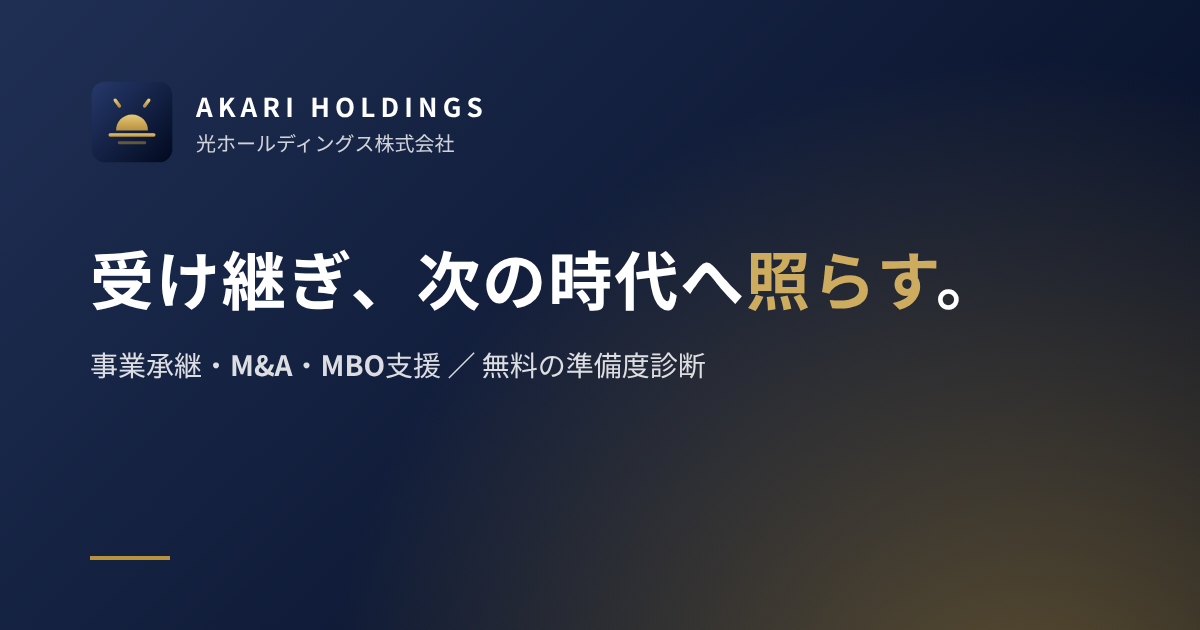
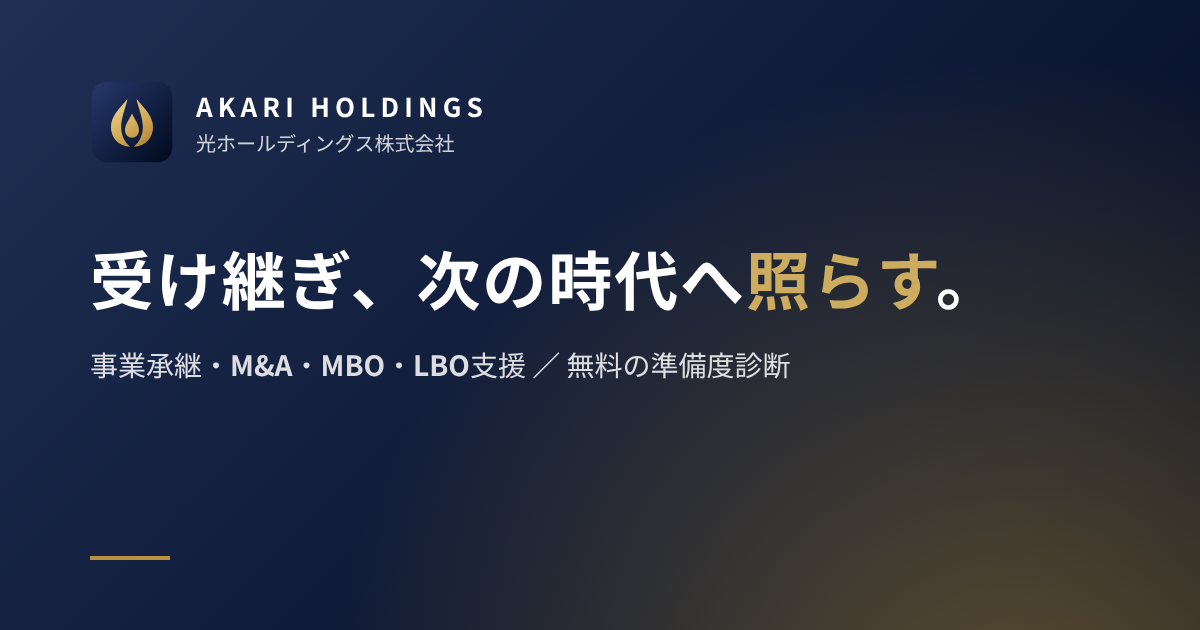
ロゴを新しいシンボル（2つのビジョンが1つの灯をともす）に変更
- assets/logo-mark.svg を新デザインに差し替え（ヘッダー・フッター・ファビコン）
- シンボル単体の assets/akari-symbol.svg、logo-512.png、apple-touch-icon.png を追加
- 共有用画像 og-image.png を新ロゴと「MBO・LBO支援」で作り直し
- about.html に「Symbol」としてロゴに込めた想いを追加
- 名刺・Googleビジネスプロフィール用のロゴ一式を ops/logo/ に追加
- 旧エンブレム（未使用）を削除

Claude-Session: https://claude.ai/code/session_01TrYAVcFz3JDQ6PgAXP3PGt

Changed region(s): [[0.3083, 0.5429, 0.6783, 0.6032], [0.0925, 0.1508, 0.1542, 0.2413]]

diff --git a/about.html b/about.html
@@ -16,16 +16,17 @@
 <link rel="preconnect" href="https://fonts.googleapis.com">
 <link rel="preconnect" href="https://fonts.gstatic.com" crossorigin>
 <link href="https://fonts.googleapis.com/css2?family=Noto+Sans+JP:wght@300;400;500;700;900&family=Archivo:ital,wght@0,300;0,400;0,500;0,600;0,700;0,800;1,400&display=swap" rel="stylesheet">
-<link rel="icon" type="image/svg+xml" href="assets/logo-mark.svg?v=15">
+<link rel="icon" type="image/svg+xml" href="assets/logo-mark.svg?v=16">
+<link rel="apple-touch-icon" href="assets/apple-touch-icon.png">
 <meta name="theme-color" content="#01091e">
-<link rel="stylesheet" href="assets/style.css?v=18">
+<link rel="stylesheet" href="assets/style.css?v=19">
 </head>
 <body>
 
 <header class="site-header" id="siteHeader">
   <div class="header-inner">
     <a href="index.html" class="logo" aria-label="光ホールディングス株式会社">
-      <img class="logo-mark" src="assets/logo-mark.svg?v=15" alt="光ホールディングス ロゴ">
+      <img class="logo-mark" src="assets/logo-mark.svg?v=16" alt="光ホールディングス ロゴ">
       <span class="logo-text">
         <span class="logo-en">AKARI HOLDINGS</span>
         <span class="logo-jp">光ホールディングス株式会社</span>
@@ -114,6 +115,14 @@
         <p>目先の利益ではなく、受け継ぐ責任と長期の信頼を。グループ各社とともに価値を育てます。</p>
       </div>
     </div>
+    <div class="symbol-story" data-reveal>
+      <img src="assets/akari-symbol.svg" alt="光ホールディングスのシンボルマーク" width="120" height="136">
+      <div>
+        <span class="phi-label">Symbol</span>
+        <h3>2つのビジョンが寄り添い、1つの灯をともす</h3>
+        <p>左の形は「会社のビジョン」、右の形は「そこで働く一人ひとりのビジョン」です。2つが寄り添い、互いを支え合うことで、その真ん中に未来を照らす灯（あかり）がともります。会社の目指す姿と、働く人の想いの両方を大切にする——それが、私たちのシンボルに込めた想いです。</p>
+      </div>
+    </div>
   </div>
 </section>
 
@@ -144,7 +153,7 @@
 <footer class="site-footer">
   <div class="container footer-inner">
     <div class="footer-brand">
-      <img class="logo-mark" src="assets/logo-mark.svg?v=15" alt="光ホールディングス ロゴ">
+      <img class="logo-mark" src="assets/logo-mark.svg?v=16" alt="光ホールディングス ロゴ">
       <div>
         <span class="logo-en">AKARI HOLDINGS</span>
         <span class="logo-jp">光ホールディングス株式会社</span>

diff --git a/index.html b/index.html
@@ -16,9 +16,10 @@
 <link rel="preconnect" href="https://fonts.googleapis.com">
 <link rel="preconnect" href="https://fonts.gstatic.com" crossorigin>
 <link href="https://fonts.googleapis.com/css2?family=Noto+Sans+JP:wght@300;400;500;700;900&family=Archivo:ital,wght@0,300;0,400;0,500;0,600;0,700;0,800;1,400&display=swap" rel="stylesheet">
-<link rel="icon" type="image/svg+xml" href="assets/logo-mark.svg?v=15">
+<link rel="icon" type="image/svg+xml" href="assets/logo-mark.svg?v=16">
+<link rel="apple-touch-icon" href="assets/apple-touch-icon.png">
 <meta name="theme-color" content="#01091e">
-<link rel="stylesheet" href="assets/style.css?v=18">
+<link rel="stylesheet" href="assets/style.css?v=19">
 </head>
 <body>
 
@@ -26,7 +27,7 @@
 <header class="site-header" id="siteHeader">
   <div class="header-inner">
     <a href="index.html" class="logo" aria-label="光ホールディングス株式会社">
-      <img class="logo-mark" src="assets/logo-mark.svg?v=15" alt="光ホールディングス ロゴ">
+      <img class="logo-mark" src="assets/logo-mark.svg?v=16" alt="光ホールディングス ロゴ">
       <span class="logo-text">
         <span class="logo-en">AKARI HOLDINGS</span>
         <span class="logo-jp">光ホールディングス株式会社</span>
@@ -232,7 +233,7 @@
 <footer class="site-footer">
   <div class="container footer-inner">
     <div class="footer-brand">
-      <img class="logo-mark" src="assets/logo-mark.svg?v=15" alt="光ホールディングス ロゴ">
+      <img class="logo-mark" src="assets/logo-mark.svg?v=16" alt="光ホールディングス ロゴ">
       <div>
         <span class="logo-en">AKARI HOLDINGS</span>
         <span class="logo-jp">光ホールディングス株式会社</span>

diff --git a/business-01.html b/business-01.html
@@ -16,16 +16,17 @@
 <link rel="preconnect" href="https://fonts.googleapis.com">
 <link rel="preconnect" href="https://fonts.gstatic.com" crossorigin>
 <link href="https://fonts.googleapis.com/css2?family=Noto+Sans+JP:wght@300;400;500;700;900&family=Archivo:ital,wght@0,300;0,400;0,500;0,600;0,700;0,800;1,400&display=swap" rel="stylesheet">
-<link rel="icon" type="image/svg+xml" href="assets/logo-mark.svg?v=15">
+<link rel="icon" type="image/svg+xml" href="assets/logo-mark.svg?v=16">
+<link rel="apple-touch-icon" href="assets/apple-touch-icon.png">
 <meta name="theme-color" content="#01091e">
-<link rel="stylesheet" href="assets/style.css?v=18">
+<link rel="stylesheet" href="assets/style.css?v=19">
 </head>
 <body>
 
 <header class="site-header" id="siteHeader">
   <div class="header-inner">
     <a href="index.html" class="logo" aria-label="光ホールディングス株式会社">
-      <img class="logo-mark" src="assets/logo-mark.svg?v=15" alt="光ホールディングス ロゴ">
+      <img class="logo-mark" src="assets/logo-mark.svg?v=16" alt="光ホールディングス ロゴ">
       <span class="logo-text">
         <span class="logo-en">AKARI HOLDINGS</span>
         <span class="logo-jp">光ホールディングス株式会社</span>
@@ -129,7 +130,7 @@
 <footer class="site-footer">
   <div class="container footer-inner">
     <div class="footer-brand">
-      <img class="logo-mark" src="assets/logo-mark.svg?v=15" alt="光ホールディングス ロゴ">
+      <img class="logo-mark" src="assets/logo-mark.svg?v=16" alt="光ホールディングス ロゴ">
       <div>
         <span class="logo-en">AKARI HOLDINGS</span>
         <span class="logo-jp">光ホールディングス株式会社</span>

diff --git a/business-02.html b/business-02.html
@@ -16,16 +16,17 @@
 <link rel="preconnect" href="https://fonts.googleapis.com">
 <link rel="preconnect" href="https://fonts.gstatic.com" crossorigin>
 <link href="https://fonts.googleapis.com/css2?family=Noto+Sans+JP:wght@300;400;500;700;900&family=Archivo:ital,wght@0,300;0,400;0,500;0,600;0,700;0,800;1,400&display=swap" rel="stylesheet">
-<link rel="icon" type="image/svg+xml" href="assets/logo-mark.svg?v=15">
+<link rel="icon" type="image/svg+xml" href="assets/logo-mark.svg?v=16">
+<link rel="apple-touch-icon" href="assets/apple-touch-icon.png">
 <meta name="theme-color" content="#01091e">
-<link rel="stylesheet" href="assets/style.css?v=18">
+<link rel="stylesheet" href="assets/style.css?v=19">
 </head>
 <body>
 
 <header class="site-header" id="siteHeader">
   <div class="header-inner">
     <a href="index.html" class="logo" aria-label="光ホールディングス株式会社">
-      <img class="logo-mark" src="assets/logo-mark.svg?v=15" alt="光ホールディングス ロゴ">
+      <img class="logo-mark" src="assets/logo-mark.svg?v=16" alt="光ホールディングス ロゴ">
       <span class="logo-text">
         <span class="logo-en">AKARI HOLDINGS</span>
         <span class="logo-jp">光ホールディングス株式会社</span>
@@ -130,7 +131,7 @@
 <footer class="site-footer">
   <div class="container footer-inner">
     <div class="footer-brand">
-      <img class="logo-mark" src="assets/logo-mark.svg?v=15" alt="光ホールディングス ロゴ">
+      <img class="logo-mark" src="assets/logo-mark.svg?v=16" alt="光ホールディングス ロゴ">
       <div>
         <span class="logo-en">AKARI HOLDINGS</span>
         <span class="logo-jp">光ホールディングス株式会社</span>

diff --git a/business-03.html b/business-03.html
@@ -16,16 +16,17 @@
 <link rel="preconnect" href="https://fonts.googleapis.com">
 <link rel="preconnect" href="https://fonts.gstatic.com" crossorigin>
 <link href="https://fonts.googleapis.com/css2?family=Noto+Sans+JP:wght@300;400;500;700;900&family=Archivo:ital,wght@0,300;0,400;0,500;0,600;0,700;0,800;1,400&display=swap" rel="stylesheet">
-<link rel="icon" type="image/svg+xml" href="assets/logo-mark.svg?v=15">
+<link rel="icon" type="image/svg+xml" href="assets/logo-mark.svg?v=16">
+<link rel="apple-touch-icon" href="assets/apple-touch-icon.png">
 <meta name="theme-color" content="#01091e">
-<link rel="stylesheet" href="assets/style.css?v=18">
+<link rel="stylesheet" href="assets/style.css?v=19">
 </head>
 <body>
 
 <header class="site-header" id="siteHeader">
   <div class="header-inner">
     <a href="index.html" class="logo" aria-label="光ホールディングス株式会社">
-      <img class="logo-mark" src="assets/logo-mark.svg?v=15" alt="光ホールディングス ロゴ">
+      <img class="logo-mark" src="assets/logo-mark.svg?v=16" alt="光ホールディングス ロゴ">
       <span class="logo-text">
         <span class="logo-en">AKARI HOLDINGS</span>
         <span class="logo-jp">光ホールディングス株式会社</span>
@@ -117,7 +118,7 @@
 <footer class="site-footer">
   <div class="container footer-inner">
     <div class="footer-brand">
-      <img class="logo-mark" src="assets/logo-mark.svg?v=15" alt="光ホールディングス ロゴ">
+      <img class="logo-mark" src="assets/logo-mark.svg?v=16" alt="光ホールディングス ロゴ">
       <div>
         <span class="logo-en">AKARI HOLDINGS</span>
         <span class="logo-jp">光ホールディングス株式会社</span>

diff --git a/business-04.html b/business-04.html
@@ -16,16 +16,17 @@
 <link rel="preconnect" href="https://fonts.googleapis.com">
 <link rel="preconnect" href="https://fonts.gstatic.com" crossorigin>
 <link href="https://fonts.googleapis.com/css2?family=Noto+Sans+JP:wght@300;400;500;700;900&family=Archivo:ital,wght@0,300;0,400;0,500;0,600;0,700;0,800;1,400&display=swap" rel="stylesheet">
-<link rel="icon" type="image/svg+xml" href="assets/logo-mark.svg?v=15">
+<link rel="icon" type="image/svg+xml" href="assets/logo-mark.svg?v=16">
+<link rel="apple-touch-icon" href="assets/apple-touch-icon.png">
 <meta name="theme-color" content="#01091e">
-<link rel="stylesheet" href="assets/style.css?v=18">
+<link rel="stylesheet" href="assets/style.css?v=19">
 </head>
 <body>
 
 <header class="site-header" id="siteHeader">
   <div class="header-inner">
     <a href="index.html" class="logo" aria-label="光ホールディングス株式会社">
-      <img class="logo-mark" src="assets/logo-mark.svg?v=15" alt="光ホールディングス ロゴ">
+      <img class="logo-mark" src="assets/logo-mark.svg?v=16" alt="光ホールディングス ロゴ">
       <span class="logo-text">
         <span class="logo-en">AKARI HOLDINGS</span>
         <span class="logo-jp">光ホールディングス株式会社</span>
@@ -133,7 +134,7 @@
 <footer class="site-footer">
   <div class="container footer-inner">
     <div class="footer-brand">
-      <img class="logo-mark" src="assets/logo-mark.svg?v=15" alt="光ホールディングス ロゴ">
+      <img class="logo-mark" src="assets/logo-mark.svg?v=16" alt="光ホールディングス ロゴ">
       <div>
         <span class="logo-en">AKARI HOLDINGS</span>
         <span class="logo-jp">光ホールディングス株式会社</span>

diff --git a/business-05.html b/business-05.html
@@ -16,16 +16,17 @@
 <link rel="preconnect" href="https://fonts.googleapis.com">
 <link rel="preconnect" href="https://fonts.gstatic.com" crossorigin>
 <link href="https://fonts.googleapis.com/css2?family=Noto+Sans+JP:wght@300;400;500;700;900&family=Archivo:ital,wght@0,300;0,400;0,500;0,600;0,700;0,800;1,400&display=swap" rel="stylesheet">
-<link rel="icon" type="image/svg+xml" href="assets/logo-mark.svg?v=15">
+<link rel="icon" type="image/svg+xml" href="assets/logo-mark.svg?v=16">
+<link rel="apple-touch-icon" href="assets/apple-touch-icon.png">
 <meta name="theme-color" content="#01091e">
-<link rel="stylesheet" href="assets/style.css?v=18">
+<link rel="stylesheet" href="assets/style.css?v=19">
 </head>
 <body>
 
 <header class="site-header" id="siteHeader">
   <div class="header-inner">
     <a href="index.html" class="logo" aria-label="光ホールディングス株式会社">
-      <img class="logo-mark" src="assets/logo-mark.svg?v=15" alt="光ホールディングス ロゴ">
+      <img class="logo-mark" src="assets/logo-mark.svg?v=16" alt="光ホールディングス ロゴ">
       <span class="logo-text">
         <span class="logo-en">AKARI HOLDINGS</span>
         <span class="logo-jp">光ホールディングス株式会社</span>
@@ -132,7 +133,7 @@
 <footer class="site-footer">
   <div class="container footer-inner">
     <div class="footer-brand">
-      <img class="logo-mark" src="assets/logo-mark.svg?v=15" alt="光ホールディングス ロゴ">
+      <img class="logo-mark" src="assets/logo-mark.svg?v=16" alt="光ホールディングス ロゴ">
       <div>
         <span class="logo-en">AKARI HOLDINGS</span>
         <span class="logo-jp">光ホールディングス株式会社</span>

diff --git a/business.html b/business.html
@@ -16,16 +16,17 @@
 <link rel="preconnect" href="https://fonts.googleapis.com">
 <link rel="preconnect" href="https://fonts.gstatic.com" crossorigin>
 <link href="https://fonts.googleapis.com/css2?family=Noto+Sans+JP:wght@300;400;500;700;900&family=Archivo:ital,wght@0,300;0,400;0,500;0,600;0,700;0,800;1,400&display=swap" rel="stylesheet">
-<link rel="icon" type="image/svg+xml" href="assets/logo-mark.svg?v=15">
+<link rel="icon" type="image/svg+xml" href="assets/logo-mark.svg?v=16">
+<link rel="apple-touch-icon" href="assets/apple-touch-icon.png">
 <meta name="theme-color" content="#01091e">
-<link rel="stylesheet" href="assets/style.css?v=18">
+<link rel="stylesheet" href="assets/style.css?v=19">
 </head>
 <body>
 
 <header class="site-header" id="siteHeader">
   <div class="header-inner">
     <a href="index.html" class="logo" aria-label="光ホールディングス株式会社">
-      <img class="logo-mark" src="assets/logo-mark.svg?v=15" alt="光ホールディングス ロゴ">
+      <img class="logo-mark" src="assets/logo-mark.svg?v=16" alt="光ホールディングス ロゴ">
       <span class="logo-text">
         <span class="logo-en">AKARI HOLDINGS</span>
         <span class="logo-jp">光ホールディングス株式会社</span>
@@ -107,7 +108,7 @@
 <footer class="site-footer">
   <div class="container footer-inner">
     <div class="footer-brand">
-      <img class="logo-mark" src="assets/logo-mark.svg?v=15" alt="光ホールディングス ロゴ">
+      <img class="logo-mark" src="assets/logo-mark.svg?v=16" alt="光ホールディングス ロゴ">
       <div>
         <span class="logo-en">AKARI HOLDINGS</span>
         <span class="logo-jp">光ホールディングス株式会社</span>

diff --git a/column-01.html b/column-01.html
@@ -16,16 +16,17 @@
 <link rel="preconnect" href="https://fonts.googleapis.com">
 <link rel="preconnect" href="https://fonts.gstatic.com" crossorigin>
 <link href="https://fonts.googleapis.com/css2?family=Noto+Sans+JP:wght@300;400;500;700;900&family=Archivo:ital,wght@0,300;0,400;0,500;0,600;0,700;0,800;1,400&display=swap" rel="stylesheet">
-<link rel="icon" type="image/svg+xml" href="assets/logo-mark.svg?v=15">
+<link rel="icon" type="image/svg+xml" href="assets/logo-mark.svg?v=16">
+<link rel="apple-touch-icon" href="assets/apple-touch-icon.png">
 <meta name="theme-color" content="#01091e">
-<link rel="stylesheet" href="assets/style.css?v=18">
+<link rel="stylesheet" href="assets/style.css?v=19">
 </head>
 <body>
 
 <header class="site-header" id="siteHeader">
   <div class="header-inner">
     <a href="index.html" class="logo" aria-label="光ホールディングス株式会社">
-      <img class="logo-mark" src="assets/logo-mark.svg?v=15" alt="光ホールディングス ロゴ">
+      <img class="logo-mark" src="assets/logo-mark.svg?v=16" alt="光ホールディングス ロゴ">
       <span class="logo-text">
         <span class="logo-en">AKARI HOLDINGS</span>
         <span class="logo-jp">光ホールディングス株式会社</span>
@@ -106,7 +107,7 @@
 <footer class="site-footer">
   <div class="container footer-inner">
     <div class="footer-brand">
-      <img class="logo-mark" src="assets/logo-mark.svg?v=15" alt="光ホールディングス ロゴ">
+      <img class="logo-mark" src="assets/logo-mark.svg?v=16" alt="光ホールディングス ロゴ">
       <div>
         <span class="logo-en">AKARI HOLDINGS</span>
         <span class="logo-jp">光ホールディングス株式会社</span>

diff --git a/column-02.html b/column-02.html
@@ -16,16 +16,17 @@
 <link rel="preconnect" href="https://fonts.googleapis.com">
 <link rel="preconnect" href="https://fonts.gstatic.com" crossorigin>
 <link href="https://fonts.googleapis.com/css2?family=Noto+Sans+JP:wght@300;400;500;700;900&family=Archivo:ital,wght@0,300;0,400;0,500;0,600;0,700;0,800;1,400&display=swap" rel="stylesheet">
-<link rel="icon" type="image/svg+xml" href="assets/logo-mark.svg?v=15">
+<link rel="icon" type="image/svg+xml" href="assets/logo-mark.svg?v=16">
+<link rel="apple-touch-icon" href="assets/apple-touch-icon.png">
 <meta name="theme-color" content="#01091e">
-<link rel="stylesheet" href="assets/style.css?v=18">
+<link rel="stylesheet" href="assets/style.css?v=19">
 </head>
 <body>
 
 <header class="site-header" id="siteHeader">
   <div class="header-inner">
     <a href="index.html" class="logo" aria-label="光ホールディングス株式会社">
-      <img class="logo-mark" src="assets/logo-mark.svg?v=15" alt="光ホールディングス ロゴ">
+      <img class="logo-mark" src="assets/logo-mark.svg?v=16" alt="光ホールディングス ロゴ">
       <span class="logo-text">
         <span class="logo-en">AKARI HOLDINGS</span>
         <span class="logo-jp">光ホールディングス株式会社</span>
@@ -124,7 +125,7 @@
 <footer class="site-footer">
   <div class="container footer-inner">
     <div class="footer-brand">
-      <img class="logo-mark" src="assets/logo-mark.svg?v=15" alt="光ホールディングス ロゴ">
+      <img class="logo-mark" src="assets/logo-mark.svg?v=16" alt="光ホールディングス ロゴ">
       <div>
         <span class="logo-en">AKARI HOLDINGS</span>
         <span class="logo-jp">光ホールディングス株式会社</span>

diff --git a/column.html b/column.html
@@ -16,16 +16,17 @@
 <link rel="preconnect" href="https://fonts.googleapis.com">
 <link rel="preconnect" href="https://fonts.gstatic.com" crossorigin>
 <link href="https://fonts.googleapis.com/css2?family=Noto+Sans+JP:wght@300;400;500;700;900&family=Archivo:ital,wght@0,300;0,400;0,500;0,600;0,700;0,800;1,400&display=swap" rel="stylesheet">
-<link rel="icon" type="image/svg+xml" href="assets/logo-mark.svg?v=15">
+<link rel="icon" type="image/svg+xml" href="assets/logo-mark.svg?v=16">
+<link rel="apple-touch-icon" href="assets/apple-touch-icon.png">
 <meta name="theme-color" content="#01091e">
-<link rel="stylesheet" href="assets/style.css?v=18">
+<link rel="stylesheet" href="assets/style.css?v=19">
 </head>
 <body>
 
 <header class="site-header" id="siteHeader">
   <div class="header-inner">
     <a href="index.html" class="logo" aria-label="光ホールディングス株式会社">
-      <img class="logo-mark" src="assets/logo-mark.svg?v=15" alt="光ホールディングス ロゴ">
+      <img class="logo-mark" src="assets/logo-mark.svg?v=16" alt="光ホールディングス ロゴ">
       <span class="logo-text">
         <span class="logo-en">AKARI HOLDINGS</span>
         <span class="logo-jp">光ホールディングス株式会社</span>
@@ -100,7 +101,7 @@
 <footer class="site-footer">
   <div class="container footer-inner">
     <div class="footer-brand">
-      <img class="logo-mark" src="assets/logo-mark.svg?v=15" alt="光ホールディングス ロゴ">
+      <img class="logo-mark" src="assets/logo-mark.svg?v=16" alt="光ホールディングス ロゴ">
       <div>
         <span class="logo-en">AKARI HOLDINGS</span>
         <span class="logo-jp">光ホールディングス株式会社</span>

diff --git a/contact.html b/contact.html
@@ -16,16 +16,17 @@
 <link rel="preconnect" href="https://fonts.googleapis.com">
 <link rel="preconnect" href="https://fonts.gstatic.com" crossorigin>
 <link href="https://fonts.googleapis.com/css2?family=Noto+Sans+JP:wght@300;400;500;700;900&family=Archivo:ital,wght@0,300;0,400;0,500;0,600;0,700;0,800;1,400&display=swap" rel="stylesheet">
-<link rel="icon" type="image/svg+xml" href="assets/logo-mark.svg?v=15">
+<link rel="icon" type="image/svg+xml" href="assets/logo-mark.svg?v=16">
+<link rel="apple-touch-icon" href="assets/apple-touch-icon.png">
 <meta name="theme-color" content="#01091e">
-<link rel="stylesheet" href="assets/style.css?v=18">
+<link rel="stylesheet" href="assets/style.css?v=19">
 </head>
 <body>
 
 <header class="site-header" id="siteHeader">
   <div class="header-inner">
     <a href="index.html" class="logo" aria-label="光ホールディングス株式会社">
-      <img class="logo-mark" src="assets/logo-mark.svg?v=15" alt="光ホールディングス ロゴ">
+      <img class="logo-mark" src="assets/logo-mark.svg?v=16" alt="光ホールディングス ロゴ">
       <span class="logo-text">
         <span class="logo-en">AKARI HOLDINGS</span>
         <span class="logo-jp">光ホールディングス株式会社</span>
@@ -106,7 +107,7 @@
 <footer class="site-footer">
   <div class="container footer-inner">
     <div class="footer-brand">
-      <img class="logo-mark" src="assets/logo-mark.svg?v=15" alt="光ホールディングス ロゴ">
+      <img class="logo-mark" src="assets/logo-mark.svg?v=16" alt="光ホールディングス ロゴ">
       <div>
         <span class="logo-en">AKARI HOLDINGS</span>
         <span class="logo-jp">光ホールディングス株式会社</span>
